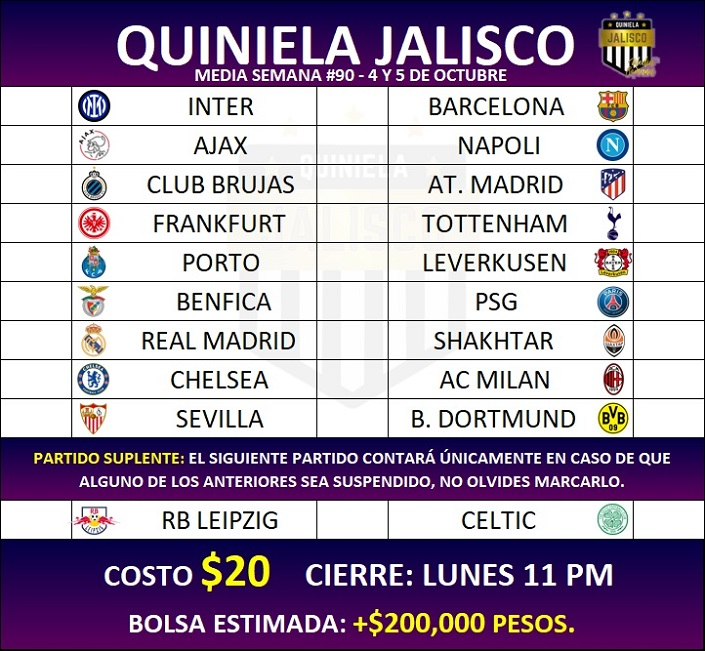
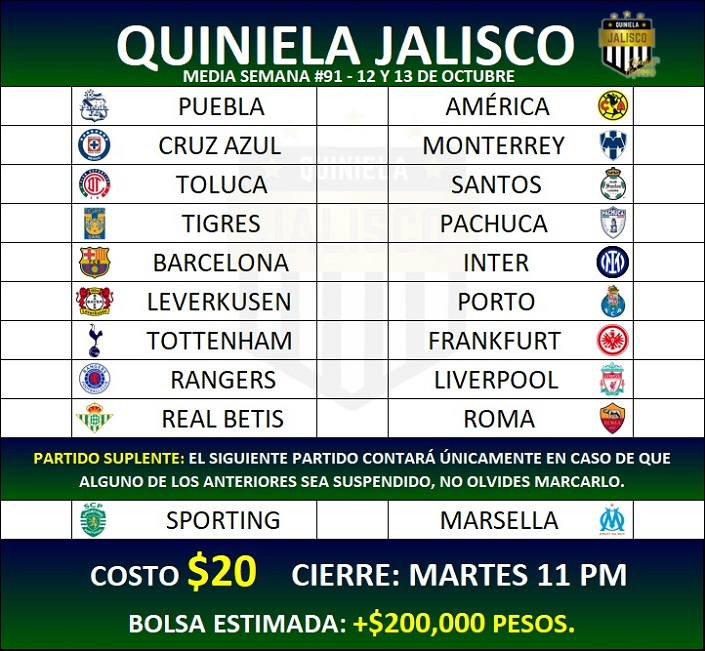
Media Semana #91

diff --git a/MediaSemana/stylesmSusp.css b/MediaSemana/stylesmSusp.css
@@ -93,8 +93,8 @@ body{
     margin-top: 9%;
     border: solid 1px black;
     border-radius: 0 0 14px 14px;
-    background: -webkit-linear-gradient(1turn, rgb(0,11,75)  ,rgb(58,0,83) 80%);
-    background: linear-gradient(1turn, rgb(0,11,75)  ,rgb(58,0,83) 80%);
+    background: -webkit-linear-gradient(1turn, rgb(0,11,75)  ,rgb(0,59,24) 80%);
+    background: linear-gradient(1turn, rgb(0,11,75)  ,rgb(0,59,24) 80%);
 }
 
 .text-lg{
